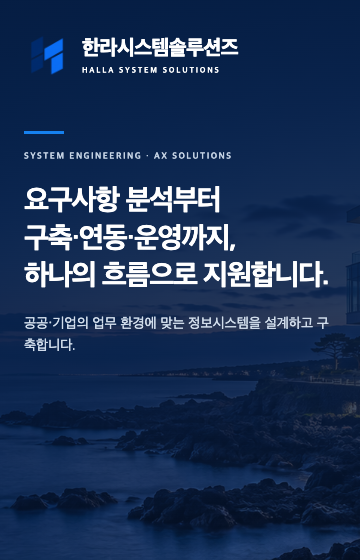
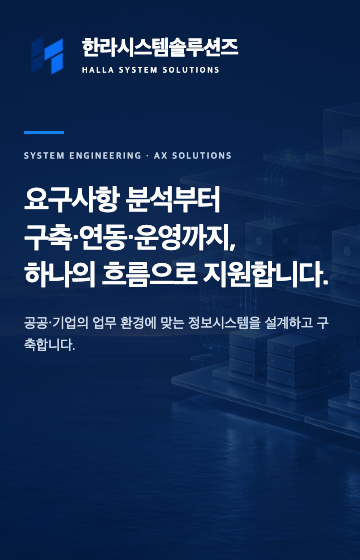
Replace architectural hero with software topology

diff --git a/design/profile-assets.html b/design/profile-assets.html
@@ -13,7 +13,7 @@
       .eyebrow { color:var(--blue); font-size:18px; font-weight:800; letter-spacing:.22em; }
       .section-title { margin:13px 0 0; font-size:42px; line-height:1.25; letter-spacing:-.045em; }
       .section-lead { color:var(--muted); font-size:20px; line-height:1.65; }
-      .hero { height:560px; background:var(--navy) url("../assets/jeju-system-hero.png") center/cover no-repeat; color:#fff; }
+      .hero { height:560px; background:var(--navy) url("../assets/system-topology-hero.png") center/cover no-repeat; color:#fff; }
       .hero::after { content:""; position:absolute; inset:0; background:linear-gradient(90deg,rgba(6,27,62,.98) 0%,rgba(6,27,62,.88) 42%,rgba(6,27,62,.2) 68%,rgba(6,27,62,.04) 100%); }
       .hero-content { position:relative; z-index:1; width:900px; padding:70px 80px; }
       .brand { display:flex; align-items:center; gap:28px; }

diff --git a/design/profile-assets-mobile.html b/design/profile-assets-mobile.html
@@ -13,7 +13,7 @@
       .eyebrow { color:var(--blue); font-size:11px; font-weight:800; letter-spacing:.18em; }
       h2 { margin:9px 0 0; font-size:27px; line-height:1.25; letter-spacing:-.045em; }
       .lead { margin:13px 0 0; color:var(--muted); font-size:14px; line-height:1.55; }
-      .hero { height:560px; color:#fff; background:var(--navy) url("../assets/jeju-system-hero.png") 66% center/auto 560px no-repeat; }
+      .hero { height:560px; color:#fff; background:var(--navy) url("../assets/system-topology-hero.png") 66% center/auto 560px no-repeat; }
       .hero::after { content:""; position:absolute; inset:0; background:linear-gradient(180deg,rgba(6,27,62,.93),rgba(6,27,62,.8) 68%,rgba(6,27,62,.5)); }
       .hero-content { position:relative; z-index:1; padding:32px 24px; }
       .brand { display:flex; align-items:center; gap:12px; }

diff --git a/design-qa.md b/design-qa.md
@@ -1,8 +1,8 @@
 # Design QA — GitHub organization profile
 
-- Source visual truth: `/Users/idonghyeon/.codex/generated_images/01a09f57-8d4c-7d90-8ac2-2359baff27e4/exec-3b0357f7-c5f3-49ce-a9a8-6d5888456eea.png`
-- Desktop implementation: `design/implementation-profile-v2.png`
-- Mobile implementation: `design/implementation-profile-mobile-v2.png`
+- Source visual truth: `/Users/idonghyeon/.codex/generated_images/01a09f57-8d4c-7d90-8ac2-2359baff27e4/exec-ab2ec312-243c-47cb-8aad-3a3ee77b2571.png`
+- Desktop implementation: `design/implementation-profile-software.png`
+- Mobile implementation: `design/implementation-profile-mobile-software.png`
 - Side-by-side evidence: `design/qa-comparison-v2.png`
 - Desktop viewport: 1440 × 1100 CSS px, device scale factor 1
 - Mobile viewport: 390 × 844 CSS px, device scale factor 1
@@ -20,12 +20,12 @@ The selected direction and implementation were viewed together in `design/qa-com
 - Fonts and typography: Korean hierarchy, bold display weights, restrained English labels, and readable line height match the selected direction. Desktop explanatory copy was enlarged after the first pass. Mobile-specific 360px assets preserve approximately 12–14px rendered body text instead of shrinking the desktop graphics.
 - Spacing and layout rhythm: Major sections follow the source order and alternate white, light-blue, and navy surfaces. Desktop uses four- and six-column structures; mobile uses two-column structures to prevent horizontal overflow.
 - Colors and visual tokens: Deep navy `#061b3e`, blue `#1681ef`, white, muted blue-gray text, and light-blue section surfaces are consistent across all assets.
-- Image quality and asset fidelity: The supplied H mark is reused. The hero uses a generated neutral Jeju basalt-coast and generic commercial-architecture image. No institution signage, customer logo, performance claim, badge, or placeholder image is present. Desktop assets are 1600px wide; mobile variants are rendered at their 360px target width.
+- Image quality and asset fidelity: The supplied H mark is reused. The hero uses a generated enterprise software topology showing application, service, integration, and data layers without depicting a client system. No institution signage, customer logo, performance claim, badge, or placeholder image is present. Desktop assets are 1600px wide; mobile variants are rendered at their 360px target width.
 - Copy and content: Service taxonomy, AX positioning, domain, and email match the approved company copy. Applicable examples explicitly say they are not completed-project results.
 
 ## Focused-region comparison
 
-- Hero: the implementation preserves the selected composition and value statement while replacing the mock's ambiguous institutional/city imagery with neutral basalt-coast imagery.
+- Hero: the implementation preserves the selected composition and value statement while replacing the architectural/coastal visual with a neutral software topology of application, service, integration, and data layers.
 - Applicable work: the implementation keeps four scannable categories and adds an explicit non-performance disclaimer.
 - Delivery process: the implementation retains six steps and adds concrete outputs. The mobile version reorganizes the same content into a 2 × 3 grid.
 - Contact: website and email are visually separated and remain functional links in the README.
@@ -48,6 +48,12 @@ The selected direction and implementation were viewed together in `design/qa-com
 - Desktop and mobile screenshots show no clipping, horizontal overflow, missing imagery, or broken content hierarchy.
 - Website, project-inquiry, hero, and contact links are present in the browser accessibility tree.
 - Browser console and page-error checks returned no errors.
+
+### Hero refinement — passed
+
+- Replaced the architectural/coastal hero with an enterprise software topology; the right-hand visual now reads as connected applications, services, APIs, servers, and databases.
+- Desktop and dedicated mobile captures preserve the copy hierarchy without clipping, overflow, or loss of contrast.
+- Browser console and page-error checks returned no errors after the replacement.
 
 ## Residual P3 polish
 
